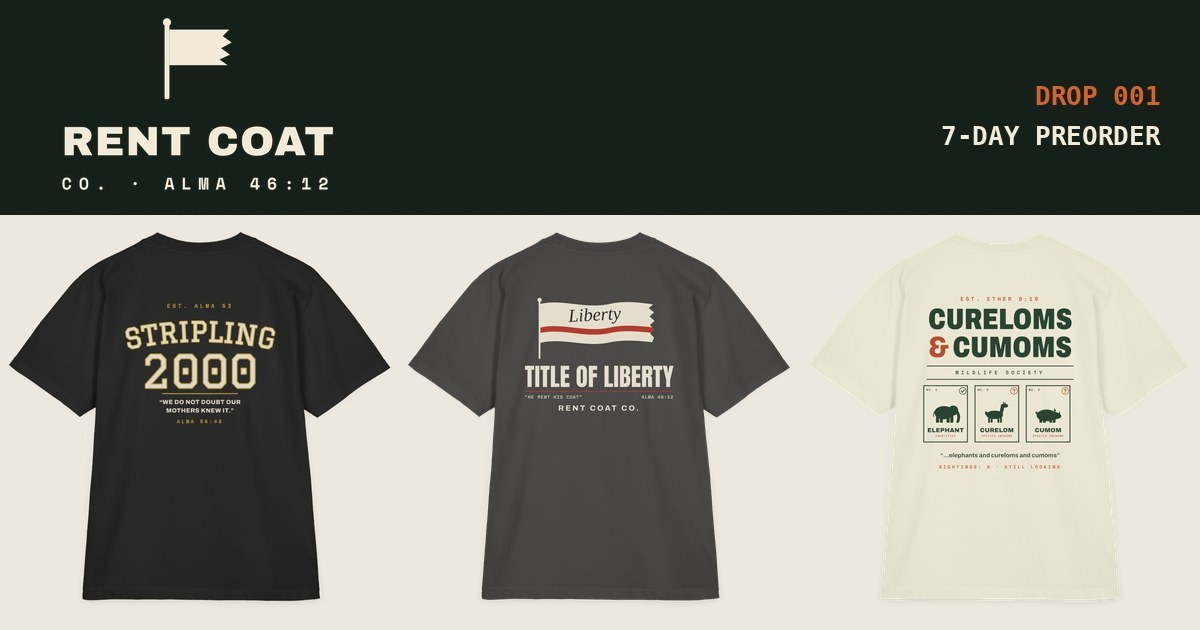
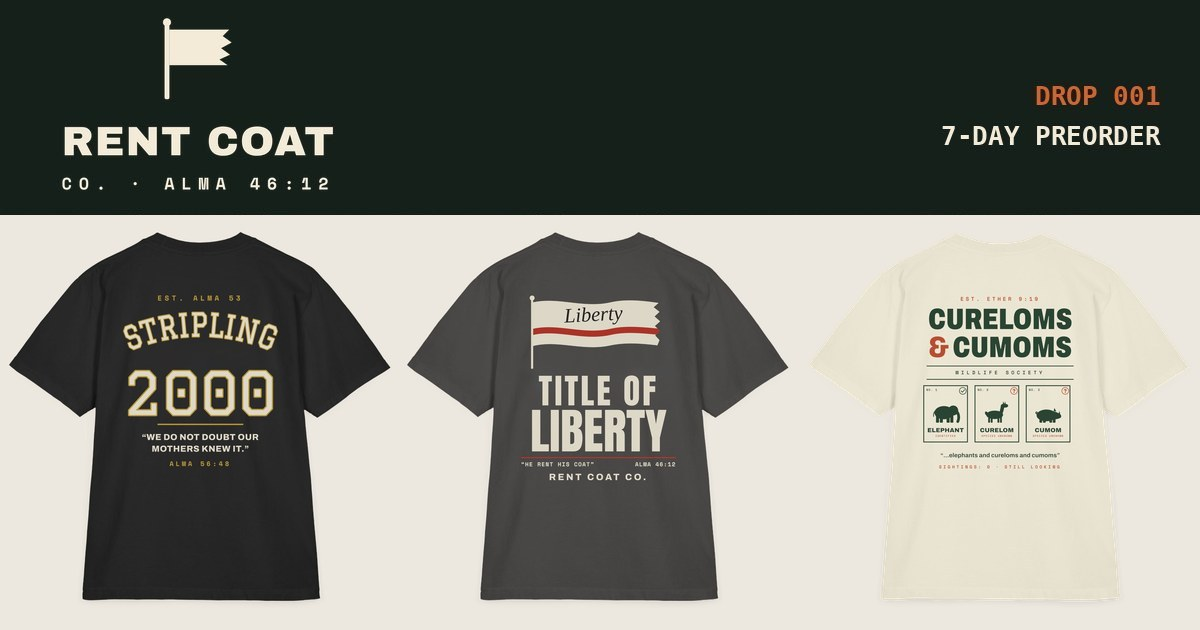
Taller back prints for Title of Liberty and Stripling 2000
Both designs are restacked taller from the original Drop 001 design code
(same words and references) and set in Printful at 13.2 in wide:
- Title of Liberty: bigger flag, title on two lines. 13.2 x 15.67 in, 299 DPI.
- Stripling 2000: deeper arch, bigger 2000 and quote. 13.2 x 14.52 in, 245 DPI.
Product photos and the share image show the new prints (liberty-back-v3,
stripling-back-v3, og-image-v3).

Claude-Session: https://claude.ai/code/session_01KgABHrvNHGy3TN6boPUamt

Changed region(s): [[0.4317, 0.4524, 0.5858, 0.7841], [0.0925, 0.4524, 0.2467, 0.754], [0.5858, 0.6333, 0.6167, 0.6635]]

diff --git a/public/index.html b/public/index.html
@@ -210,7 +210,7 @@
       "name": "Title of Liberty Heavyweight Tee",
       "description": "The Rent Coat Co. flagship: a torn banner on a pole for the title of liberty in Alma 46:12–13. Shaka Wear SHGDD heavyweight garment-dyed cotton in Shadow.",
       "image": [
-        "https://rentcoat.co/images/liberty-back-v2.jpg",
+        "https://rentcoat.co/images/liberty-back-v3.jpg",
         "https://rentcoat.co/images/liberty-front.jpg"
       ],
       "brand": {
@@ -333,7 +333,7 @@
       "about": {
         "@id": "https://rentcoat.co/#org"
       },
-      "primaryImageOfPage": "https://rentcoat.co/images/liberty-back-v2.jpg",
+      "primaryImageOfPage": "https://rentcoat.co/images/liberty-back-v3.jpg",
       "inLanguage": "en-US",
       "dateModified": "2026-10-25"
     }
@@ -692,7 +692,7 @@ footer .wrap { padding-block: 56px 40px }
     </div>
     <figure class="hero-art" style="margin:0">
       <div class="frame">
-        <img src="images/liberty-back-v2.jpg" width="1600" height="1800" alt="Title of Liberty tee in Shadow, back print of a torn banner on a pole" fetchpriority="high">
+        <img src="images/liberty-back-v3.jpg" width="1600" height="1800" alt="Title of Liberty tee in Shadow, back print of a torn banner on a pole" fetchpriority="high">
         <figcaption class="chips"><span class="chip">The flagship</span><span class="chip light">From $40</span></figcaption>
       </div>
       <div class="stamp" aria-hidden="true">
@@ -716,7 +716,7 @@ footer .wrap { padding-block: 56px 40px }
   <div class="grid" id="grid">
     <article class="card" id="liberty">
       <div class="shot">
-        <img src="images/liberty-back-v2.jpg" width="1600" height="1800" loading="lazy" alt="Title of Liberty tee in Shadow, back print">
+        <img src="images/liberty-back-v3.jpg" width="1600" height="1800" loading="lazy" alt="Title of Liberty tee in Shadow, back print">
         <img class="alt" src="images/liberty-front.jpg" width="1600" height="1800" loading="lazy" alt="Title of Liberty tee in Shadow, front chest print">
         <span class="tag eyebrow hot">Flagship</span>
         <div class="flip" role="group" aria-label="Show side">
@@ -912,7 +912,7 @@ let SHIPPING_CENTS = 599;
 let closedSundays = true;
 
 const PRODUCTS = [
-  { id: "liberty", name: "Title of Liberty", color: "Shadow", back: "images/liberty-back-v2.jpg" },
+  { id: "liberty", name: "Title of Liberty", color: "Shadow", back: "images/liberty-back-v3.jpg" },
   { id: "stripling", name: "Stripling 2000", color: "Black", back: "images/stripling-back-v3.jpg" },
   { id: "cureloms", name: "Cureloms & Cumoms", color: "Cream", back: "images/cureloms-back-v2.jpg" },
 ];

diff --git a/public/about.html b/public/about.html
@@ -33,7 +33,7 @@
       "description": "The story behind the Rent Coat Co. name, the shirts, and how 7-day preorder drops work.",
       "dateModified": "2026-10-23",
       "inLanguage": "en-US",
-      "primaryImageOfPage": "https://rentcoat.co/images/liberty-back-v2.jpg",
+      "primaryImageOfPage": "https://rentcoat.co/images/liberty-back-v3.jpg",
       "about": { "@id": "https://rentcoat.co/#org" },
       "isPartOf": { "@type": "WebSite", "@id": "https://rentcoat.co/#site", "url": "https://rentcoat.co/", "name": "Rent Coat Co." }
     },
@@ -187,7 +187,7 @@ footer span { margin-left: auto }
     <p>Every Rent Coat Co. tee is a Shaka Wear SHGDD: 7.5 oz heavyweight cotton, garment-dyed for a broken-in feel, with a boxy, oversized, drop-shoulder fit in S to 2XL. Each shirt is printed for you after the drop closes.</p>
   </div>
   <ul class="shirts">
-    <li><div class="pic"><img src="/images/liberty-back-v2.jpg" width="1600" height="1800" loading="lazy" alt="Title of Liberty tee in Shadow, back print of a torn banner on a pole"></div>
+    <li><div class="pic"><img src="/images/liberty-back-v3.jpg" width="1600" height="1800" loading="lazy" alt="Title of Liberty tee in Shadow, back print of a torn banner on a pole"></div>
       <div class="txt"><p class="eyebrow"><a href="https://www.churchofjesuschrist.org/study/scriptures/bofm/alma/46?lang=eng&amp;id=p12#p12" target="_blank" rel="noopener">Alma 46:12</a> · Shadow</p><h3>Title of Liberty</h3><p class="d">The flagship. A torn banner on a pole.</p></div></li>
     <li><div class="pic"><img src="/images/stripling-back-v3.jpg" width="1600" height="1800" loading="lazy" alt="Stripling 2000 tee in Black, varsity-style back print"></div>
       <div class="txt"><p class="eyebrow"><a href="https://www.churchofjesuschrist.org/study/scriptures/bofm/alma/56?lang=eng&amp;id=p48#p48" target="_blank" rel="noopener">Alma 56:48</a> · Black</p><h3>Stripling 2000</h3><p class="d">Varsity print for the 2,000 stripling warriors: "We do not doubt our mothers knew it."</p></div></li>
